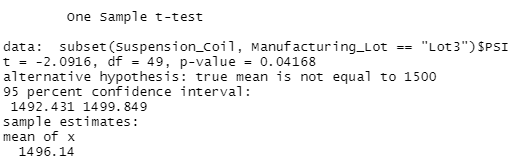
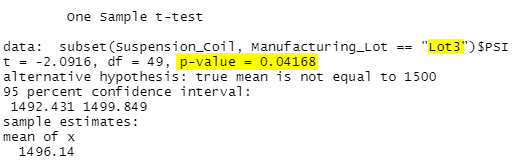
Deliverable 3 Submission

Changed region(s): [[0.3404, 0.3012, 0.619, 0.4217], [0.8046, 0.2108, 0.8975, 0.3313]]

diff --git a/README.md b/README.md
@@ -29,16 +29,31 @@ When looking at the summary statistics for the suspension coils in total the var
 ## T-Tests on Suspension Coils
 #### **Total t-Test:**
 
-![total_t-Test](https://user-images.githubusercontent.com/90863226/148663625-825438a1-6a70-4c37-8a0f-37a15057f373.png)
+![total_t-Test](https://user-images.githubusercontent.com/90863226/148694852-e9d48fde-0ff6-40b8-8fa9-3467f8a43a8e.png)
+
+The p-value of 0.06 for the total data population is slightly higher than the significance level of 0.05, and can therefore be deemed to be statistically similar to the mean of 1500.
 
 #### **Lot 1 t-Test:**
 
-![Lot1_t-Test](https://user-images.githubusercontent.com/90863226/148663627-512cccb0-5f41-4c5c-8b31-e9bb24e00956.png)
+![Lot1_t-Test](https://user-images.githubusercontent.com/90863226/148694858-0ede1a27-b0d5-4541-95a0-8284e0494202.png)
+
+The p-value of 1 for Lot 1 is quite a bit higher than the significance level of 0.05, and can therefore be deemed to be statistically similar to the mean of 1500.
 
 #### **Lot 2 t-Test:**
 
-![Lot2_t-Test](https://user-images.githubusercontent.com/90863226/148663631-5998a9f0-4aad-4ccd-bb0f-64376612a0c3.png)
+![Lot2_t-Test](https://user-images.githubusercontent.com/90863226/148694873-e65f602e-a935-4c8f-8632-259c65d12994.png)
+
+Similar to the Lot 1 group, the p-value of 0.61 for Lot 2 is quite a bit higher than the significance level of 0.05, and can therefore be deemed to be statistically similar to the mean of 1500.
 
 #### **Lot 3 t-Test:**
 
-![Lot3_t-Test](https://user-images.githubusercontent.com/90863226/148663637-d2b7833a-fc02-4045-90ef-5a8d374caf44.png)
+![Lot3_t-Test](https://user-images.githubusercontent.com/90863226/148694882-4bb27703-4873-46e4-befd-c3710ba3df1a.png)
+
+The p-value of 0.04 for Lot 3 is below the significance level of 0.05, and can therefore be deemed to be statistically different from the population mean of 1500.
+
+
+## Study Design: MechaCar vs Competition
+What metric or metrics are you going to test?
+What is the null hypothesis or alternative hypothesis?
+What statistical test would you use to test the hypothesis? And why?
+What data is needed to run the statistical test?
